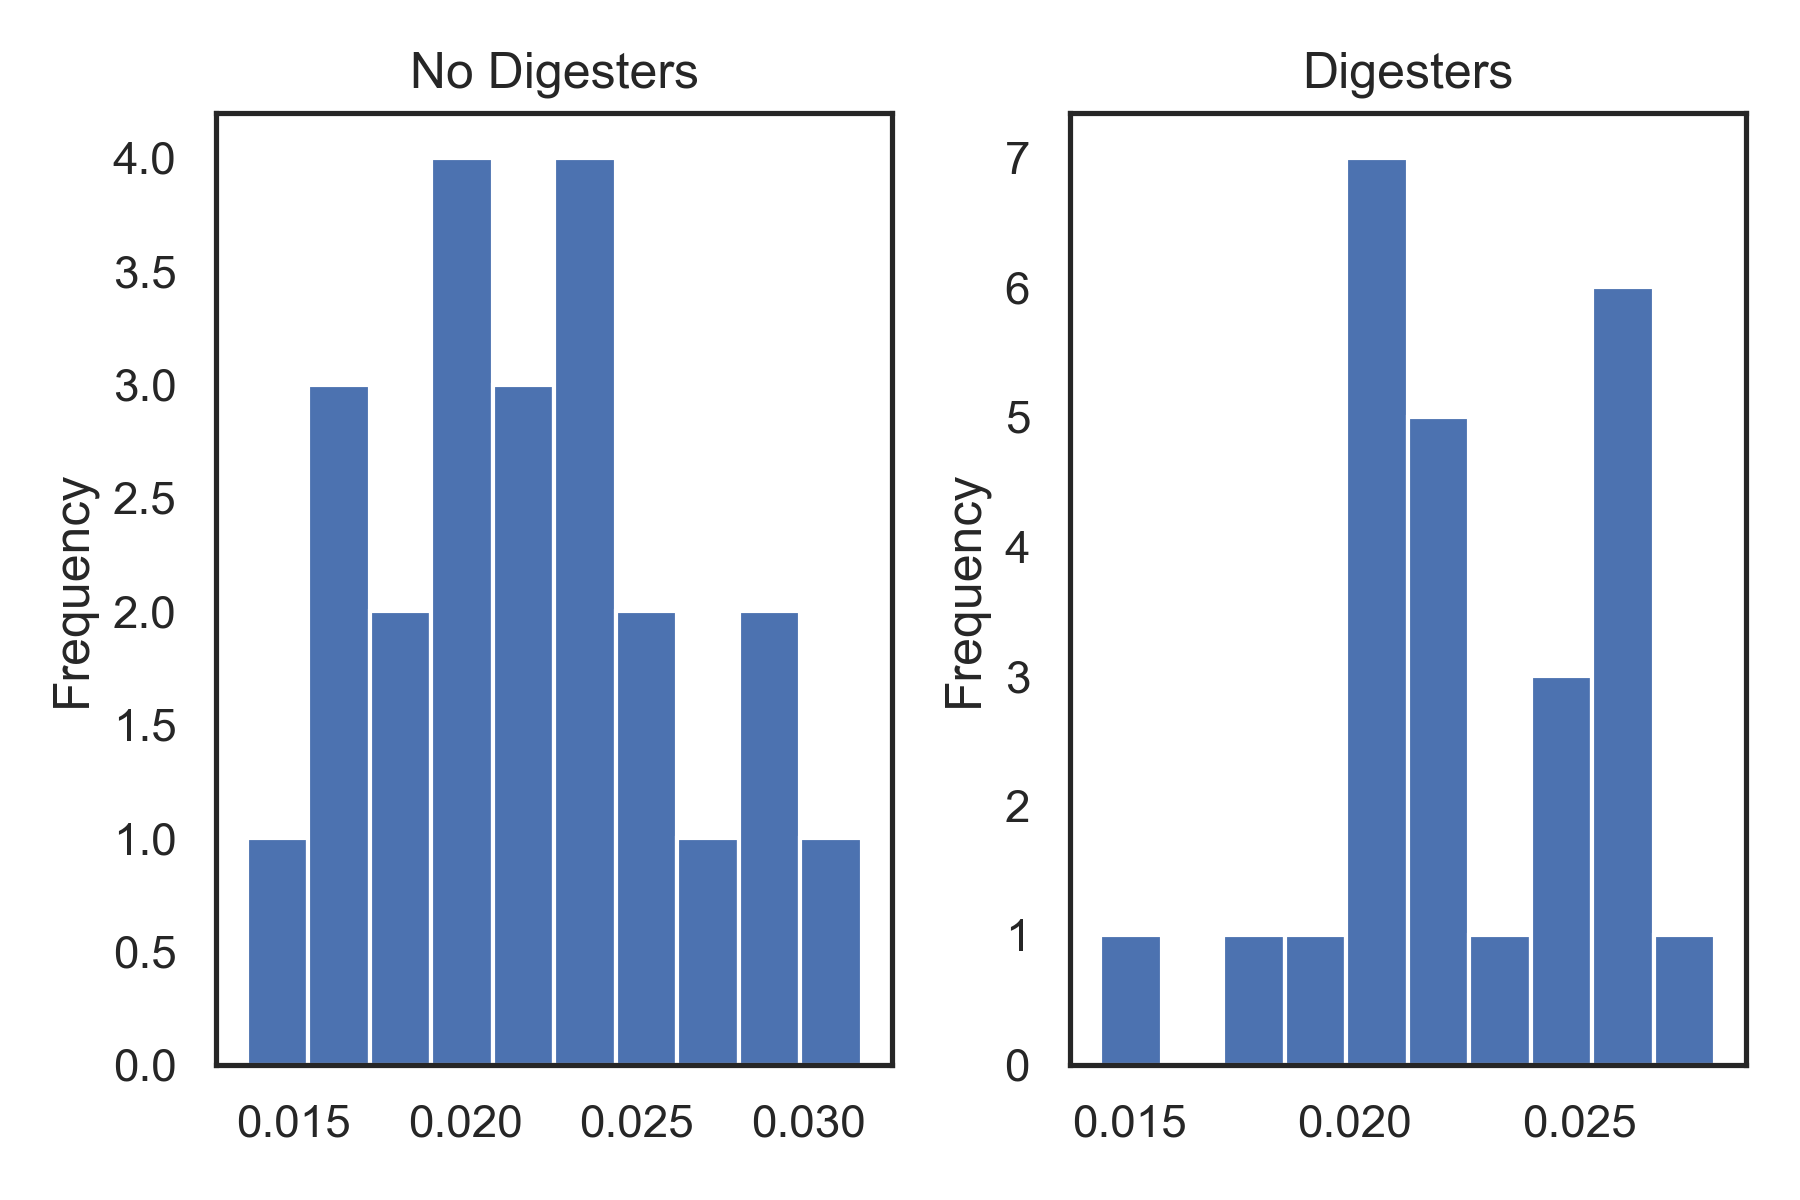
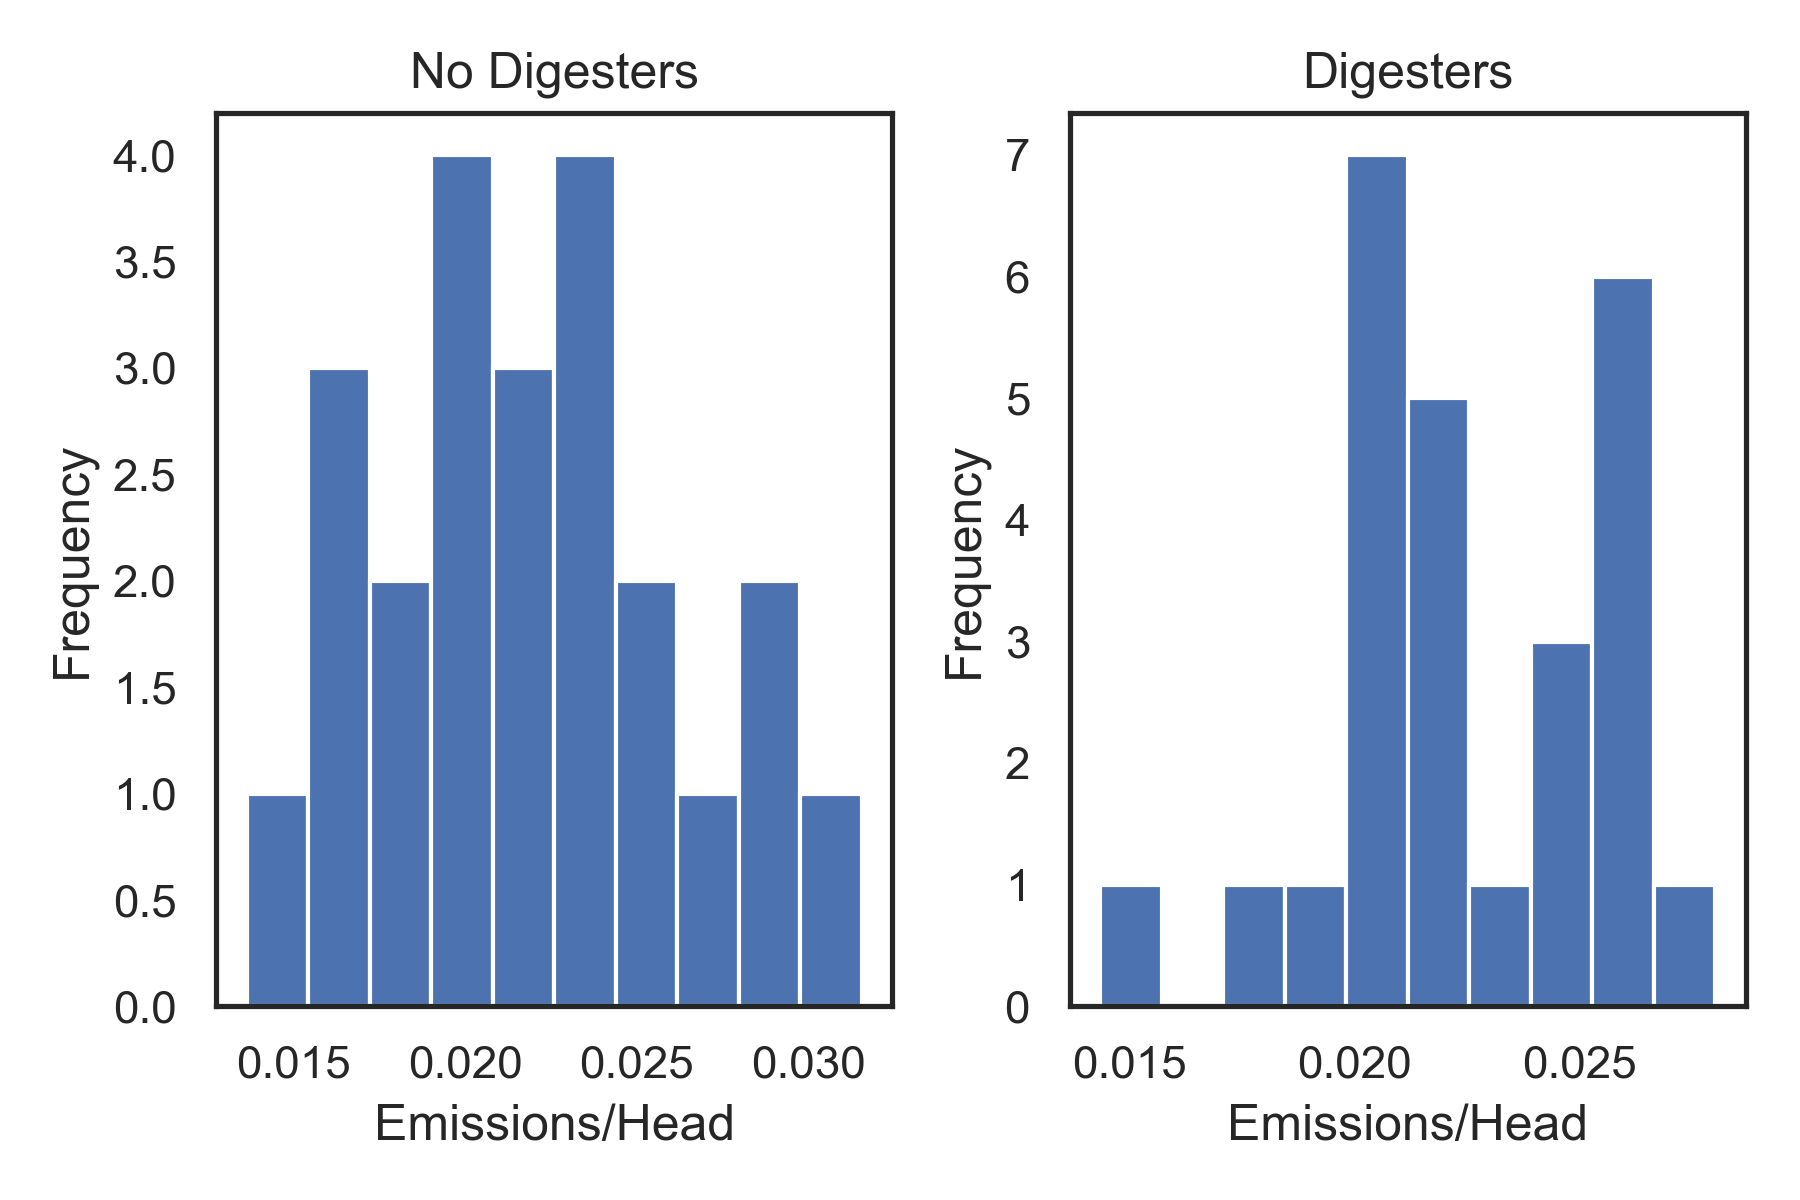
Updated readme and added figures

diff --git a/README.md b/README.md
@@ -21,10 +21,10 @@ https://www.epa.gov/agstar/livestock-anaerobic-digester-database
 Cow Inventory by State:
 https://www.nass.usda.gov/Publications/AgCensus/2017/Full_Report/Volume_1,_Chapter_1_State_Level/New_York/
 
-New York County Cows Inventory:
+Cow Inventory by County (New York):
 https://www.nass.usda.gov/Publications/AgCensus/2017/Full_Report/Volume_1,_Chapter_2_County_Level/New_York/st36_2_0011_0011.pdf
 
-State AD Incentive Programs:
+State Anaerobic Digester Incentive Programs:
 https://openei.org/wiki/List_of_Anaerobic_Digestion_Incentives
 
 Process:
@@ -34,29 +34,52 @@ Scripts should be run in this order:
 3. policy_impact.py
 4. analyze_digester.py
 5. emissions_map.py
+6. county_cows.py
 
 Findings:
-The highest dairy emitters are both states with high cow numbers, and also states with high per/head emitters.
-Cows emit different levels of methane based on their feed, suggesting that while these anaerobic digesters can 
+Digesters effect on emissions:
+
+Figure em_digest.png shows the emissions/head for states with and without digesters.
+Emissions/Head/yr with Digesters: 23kg
+Emissions/Head/yes without Digesters: 22kg
+
+The highest dairy emitters are both states with high cow numbers and also states with high per head emitters.
+Cows emit different levels of methane based on their feed, potentially suggesting that while these anaerobic digesters can 
 have a significant impact on emissions, feed may be another important angle to address emissions. 
 
 Based on the average reduction of emissions from existing ADs, the average reduction is 52.95%. 
 This is significantly less than the reported reduction of up to 85%.
-Per head emissions between states that have operational digeesters and those that don't are nearly identical.
-Per head emissions varies greatly by state, and those with ADs have higher per head emissions from the start.
-Farm size does seem to make a difference, digesters are much more common on large farms (>1000)
 
-The existence of incentive programs rarely means the existence of digesters. Many states have some form of incentive
-but that doesn't necessarily encourage a lot of digesters. Future research should be done on the quality of forms of
-these incentives. The actual number of incentives doens't seem to make a large difference either. 
+Figure farm_size.png shows the rate of digesters based on farm size.
+Farm size does seem to make a difference, digesters are much more common on large farms (head > 2000)
 
-States with the highest emissions tend to have digesters in place, but that is not always true. Looking at the map
-us_cont_emissions.png, Texas and New Mexico are relatively high emitters with no ADs. It's also important to note
-that the existence of operational digesters does not specify how many. Future analysis could be done to see how many
-are in each state and how many would be necessary to make a significant impact.
+Figure policyimpact.png shows that the existence of incentive programs does not necessariy lead to the existence
+of digesters. Many states have some form of incentive but that doesn't necessarily encourage a lot of digesters. 
+Future research should be done on the quality ofthese incentives. 
+The actual number of incentive programs doesn't seem to make a large difference either. 
 
-Isolating New York State, we can see highest density of cows/acre by looking at nys_cow_density.png. This map
-indicates where ADs could have the biggest impact in NYS. nys_county_digesters shows where ADs are currently in place.
+Figure us_cont_emissions.png shows that states with the highest emissions tend to have digesters in place. 
+Exceptions are Texas and New Mexico, which are relatively high emitters with no ADs. It's also important to note
+that the existence of operational digesters does not specify how many (but could with this data). Future analysis 
+could be done to see how many are in each state and how many would be necessary to make a significant impact.
+
+Isolating New York State
+
+Figure nys_cow_density.png shows the density of cows across NYS counties. The highest density of cows are found in
+midwest part of the state in Genesee, Livingston, Onondaga, Ontario, Wyoming, and Yates counties.
+
+Figure pop_cow_density.png overlays population data, showing where the most people live and where the most cows
+are located in NYS. If the greatest impact on climate change should be focused on where the most people live, the greatest
+impact that ADs can have based on these data points are: Onondaga, Ontario, and Montgomery counties.
+
+I also looked at median income with the assumption that climate change more adversely affects people in lower income
+brackets. When I isolated the bottom 20% of median income and compared it to high cow density, the most advantageous
+county for ADs is Yates county. 
+
+Figure nys_county_digesters.png overlays the existence of digesters on the cow density data.
+
+Based on the above analysis, NYS should focus its incentive programs for AD development in Cortland, Onondaga,
+Tompkins, and Yates counties. It would also benefit from encouraging more ADs in Montgomery and Ontario counties.
 
 
 
